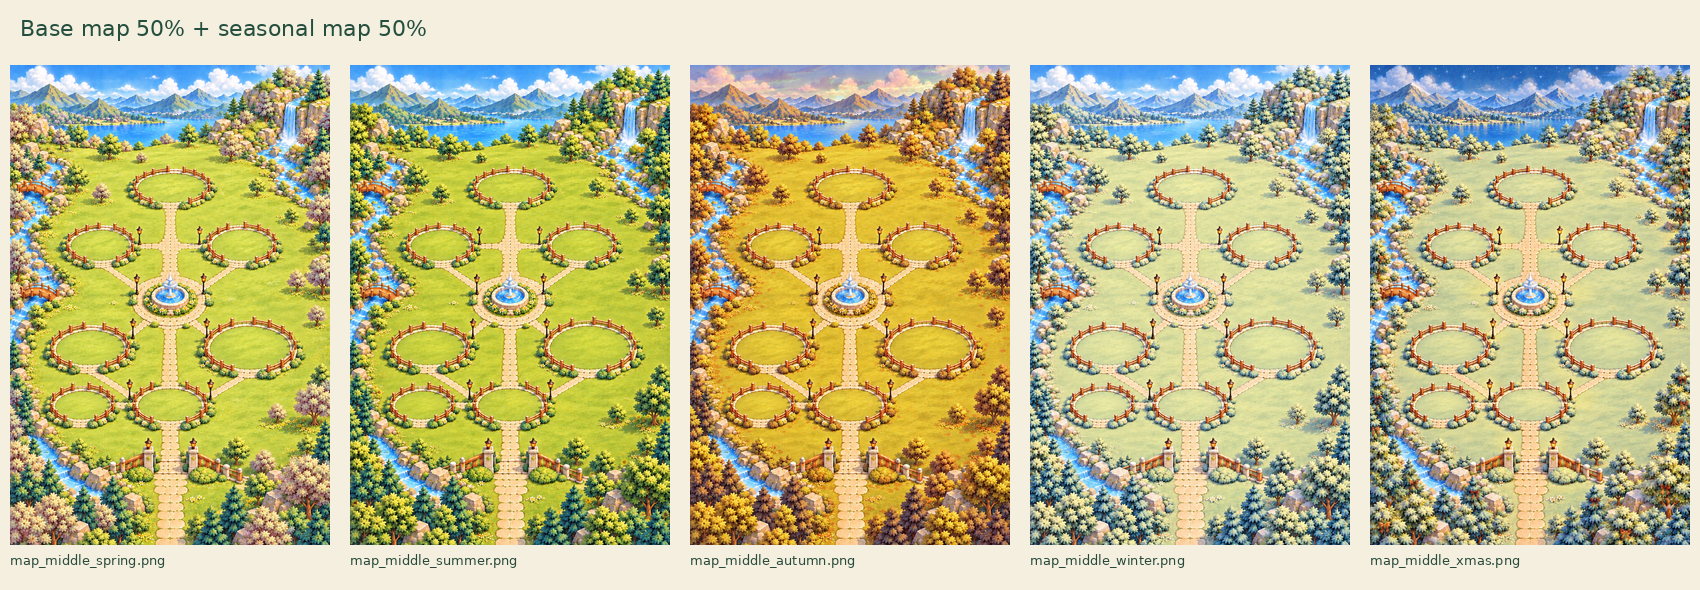
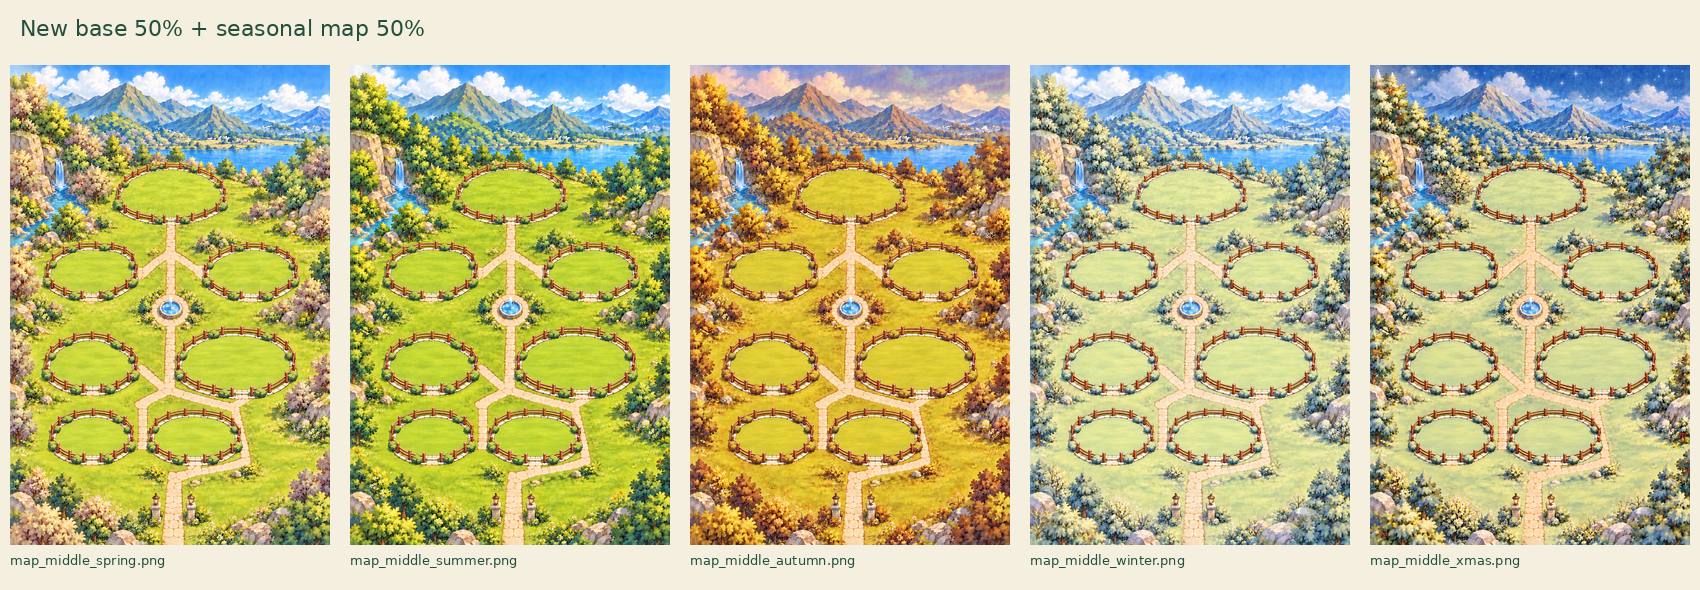
art: enlarge middle school map lots and refresh seasonal maps

diff --git a/art/v200/maps/lots_middle.md b/art/v200/maps/lots_middle.md
@@ -1,27 +1,43 @@
 # 중학교 지도 빈터 좌표
 
-기준 캔버스는 `map_middle.png` 1024×1536입니다. 좌상단을 (0%, 0%)로 보고, 중심은 울타리 안 평평한 땅의 가운데를 눈금으로 측정한 값입니다. 너비는 울타리 안쪽 땅의 가로 폭입니다. 수채 경계에는 수 픽셀의 측정 오차가 있습니다.
+기준은 새 `map_middle.png`의 1024×1536 캔버스이며 좌상단이 (0%, 0%)입니다. 중심은 울타리 안 땅의 가로 범위 중앙과 빈터 중앙 높이입니다. 너비는 울타리·기둥·꽃을 제외한 **안쪽 풀밭의 최대 가로 폭**을 원본 크기에서 측정했습니다. 수채 경계의 측정 오차는 약 2~3px입니다. 계절판에도 같은 좌표를 사용합니다.
 
-| 빈터 | 중심 가로 (%) | 중심 세로 (%) | 안쪽 땅 너비 (%) | 미리보기 건물 캔버스 너비 (px) |
-|---|---:|---:|---:|---:|
-| 과학실 | 50.39 | 25.46 | 22.27 | 160 |
-| 교실 | 28.03 | 37.63 | 18.55 | 158 |
-| 급식실 | 72.95 | 37.63 | 18.55 | 158 |
-| 도서관 | 25.00 | 59.44 | 22.07 | 180 |
-| 운동장 | 75.20 | 59.18 | 24.41 | 207 |
-| 기숙사 공사 자리 | 22.07 | 71.42 | 17.97 | 146 |
-| 매점 | 50.29 | 71.16 | 19.73 | 160 |
+| 빈터 | 중심 가로 (%) | 중심 세로 (%) | 목표 너비 (%) | 측정 너비 (%) | 안쪽 가로 범위 (px) | 미리보기 건물 캔버스 너비 (px) |
+|---|---:|---:|---:|---:|---|---:|
+| 과학실 | 50.39 | 26.95 | 32 | 32.03 | 352–680 | 329 |
+| 교실 | 25.73 | 42.97 | 26 | 26.46 | 128–399 | 268 |
+| 급식실 | 75.34 | 42.97 | 26 | 27.25 | 632–911 | 275 |
+| 도서관 | 25.54 | 61.98 | 27 | 26.86 | 124–399 | 271 |
+| 운동장 | 70.65 | 61.98 | 36 | 34.86 | 545–902 | 353 |
+| 기숙사 공사 자리 | 25.68 | 77.02 | 24 | 23.83 | 141–385 | 238 |
+| 매점 | 57.71 | 77.02 | 26 | 26.76 | 454–728 | 272 |
 
-`map_check.png`는 위 중심에 건물 바닥 섬의 가운데를 맞춘 배치입니다. 건물 이미지의 정사각형 중심을 빈터 중심에 맞추는 방식과 다릅니다. 아래 미리보기 기준 앵커를 사용했습니다.
+`map_check.png`에서는 원본 건물 PNG를 수정하지 않고, 바닥 섬의 가로 범위가 각 빈터 폭의 약 98%가 되게 미리보기에서만 확대했습니다. 건물 하단은 빈터 앞쪽 지면 경계에서 12px 안으로 들어오게 배치했습니다. 건물별 정확한 미리보기 좌상단과 확대 크기는 아래와 같습니다.
 
-| 건물 | 이미지 안 바닥 중심 가로 | 이미지 안 바닥 중심 세로 |
+| 건물 | 파일 | 좌상단 x (px) | 좌상단 y (px) | 캔버스 크기 (px) | 바닥 섬 가로 채움 (%) |
+|---|---|---:|---:|---:|---:|
+| 과학실 | `buildings/bld_science_s3.png` | 351 | 165 | 329 | 98.15 |
+| 교실 | `buildings/bld_classroom_s3.png` | 129 | 465 | 268 | 97.73 |
+| 급식실 | `buildings/bld_cafeteria_s3.png` | 634 | 461 | 275 | 97.89 |
+| 도서관 | `buildings/bld_library_s3.png` | 126 | 770 | 271 | 97.68 |
+| 운동장 | `buildings/bld_field_s3.png` | 547 | 714 | 353 | 98.30 |
+| 기숙사 공사 자리 | `store/bld_dorm_lock.png` | 144 | 1026 | 238 | 97.35 |
+| 매점 | `store/bld_store_on.png` | 454 | 986 | 272 | 97.91 |
+
+참나무를 놓을 (82%, 81%)와 학교 간판을 놓을 (39%, 86%)에는 나무·장식을 그리지 않았습니다. 아래 장식 후보 11곳은 건물 알파 영역·빈터·길·참나무/간판 예약 영역과 겹치지 않는 약 40×40px 풀밭을 확인한 중심입니다. 실제 장식의 바닥 크기에 따라 미세 조정할 수 있습니다.
+
+| 후보 | 가로 (%) | 세로 (%) |
 |---|---:|---:|
-| 과학실 | 0.50 | 0.84 |
-| 교실 | 0.50 | 0.84 |
-| 급식실 | 0.50 | 0.84 |
-| 도서관 | 0.50 | 0.84 |
-| 운동장 | 0.50 | 0.78 |
-| 기숙사 공사 자리 | 0.50 | 0.82 |
-| 매점 | 0.50 | 0.82 |
+| 1 | 41.70 | 35.16 |
+| 2 | 44.04 | 58.59 |
+| 3 | 62.79 | 88.28 |
+| 4 | 26.46 | 86.72 |
+| 5 | 55.76 | 35.94 |
+| 6 | 45.21 | 45.31 |
+| 7 | 76.86 | 71.88 |
+| 8 | 56.93 | 46.09 |
+| 9 | 78.03 | 89.84 |
+| 10 | 40.53 | 90.62 |
+| 11 | 35.84 | 51.56 |
 
-참나무 권장 자리는 (82%, 81%), 학교 간판 권장 자리는 (39%, 86%)입니다. 두 곳은 비워 두었습니다. 장식용 여유 풀밭 후보 중심 11곳은 (40.5%, 33%), (59.5%, 33%), (42%, 41%), (58.5%, 41%), (27%, 47%), (74%, 47%), (34.5%, 51.5%), (40%, 61%), (61%, 66%), (69%, 72%), (65%, 79%)입니다. 실제 장식의 바닥 크기에 맞춰 최종 배치를 조정하세요. 지도 파일에는 표시나 장식을 추가하지 않았습니다.
+측정 폭은 목표값과 최대 약 1.3%p 차이가 있습니다. 수채 경계의 근사 측정이며, 전체 윤곽이나 계절판의 픽셀 단위 일치를 보장하는 충돌 마스크가 아닙니다.
